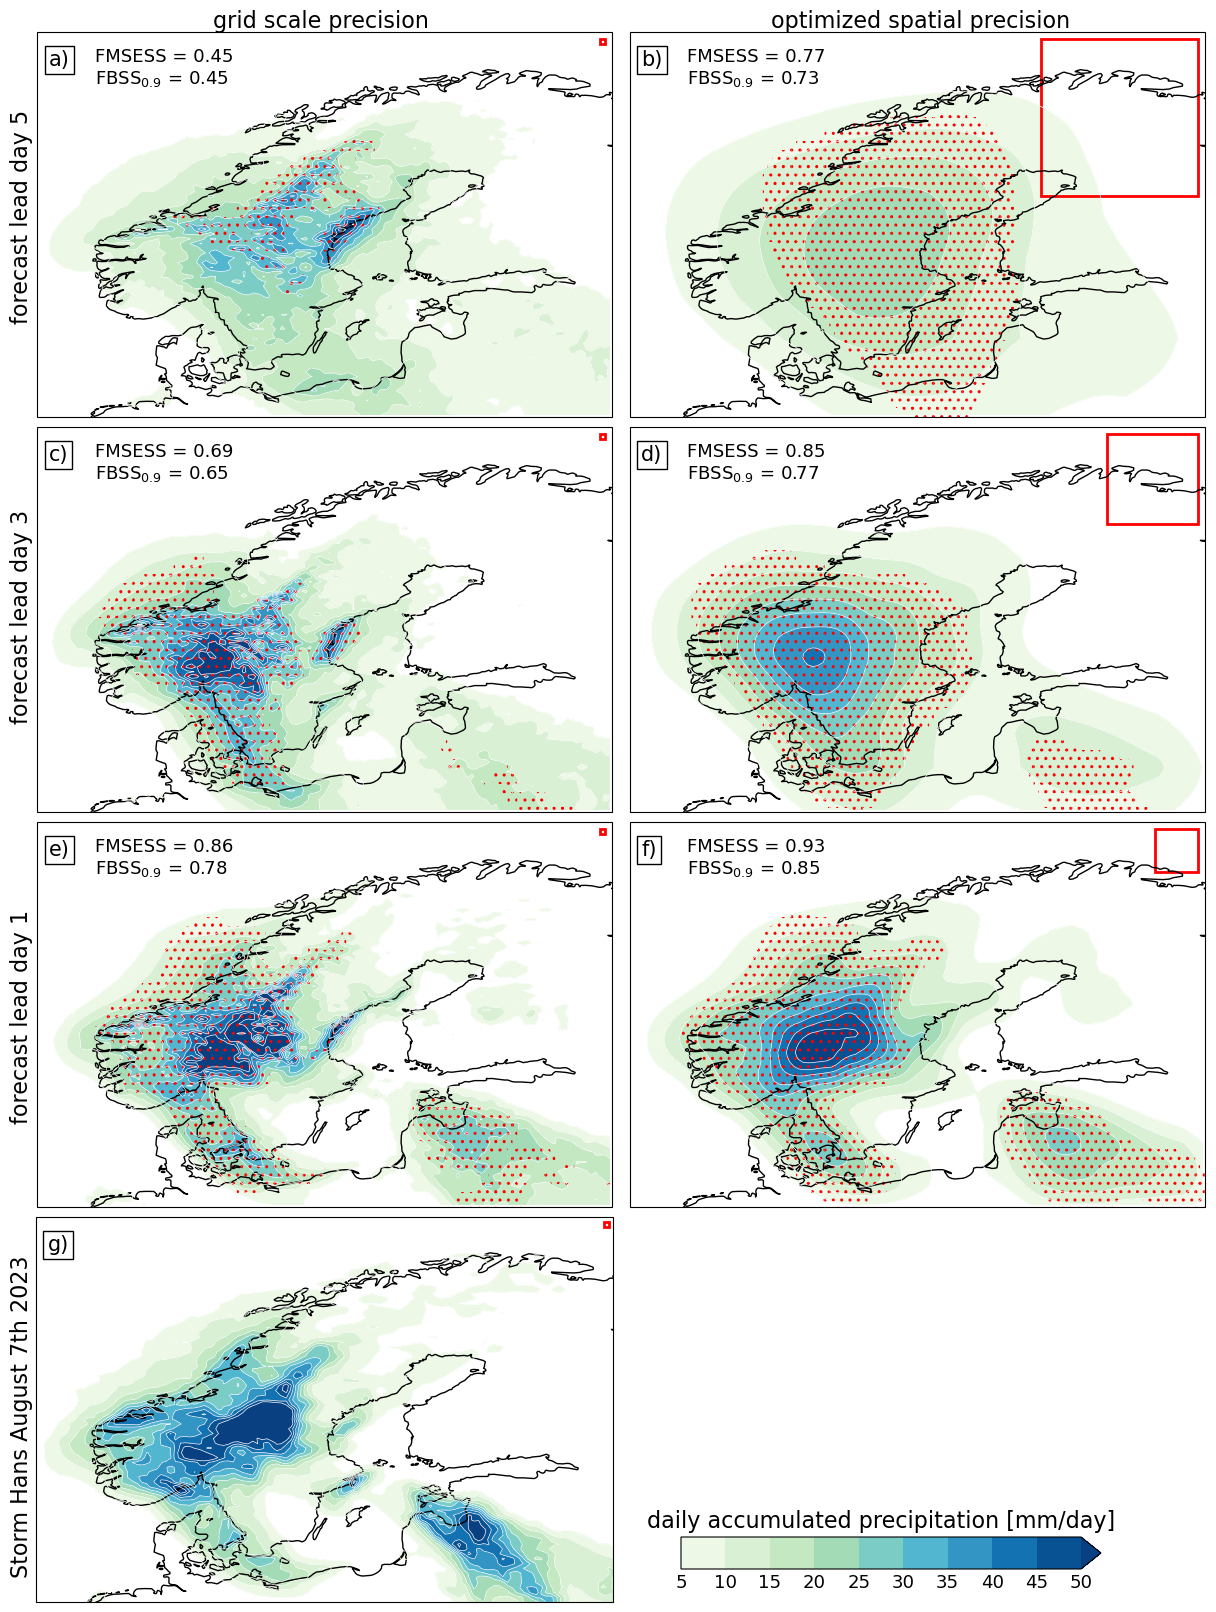
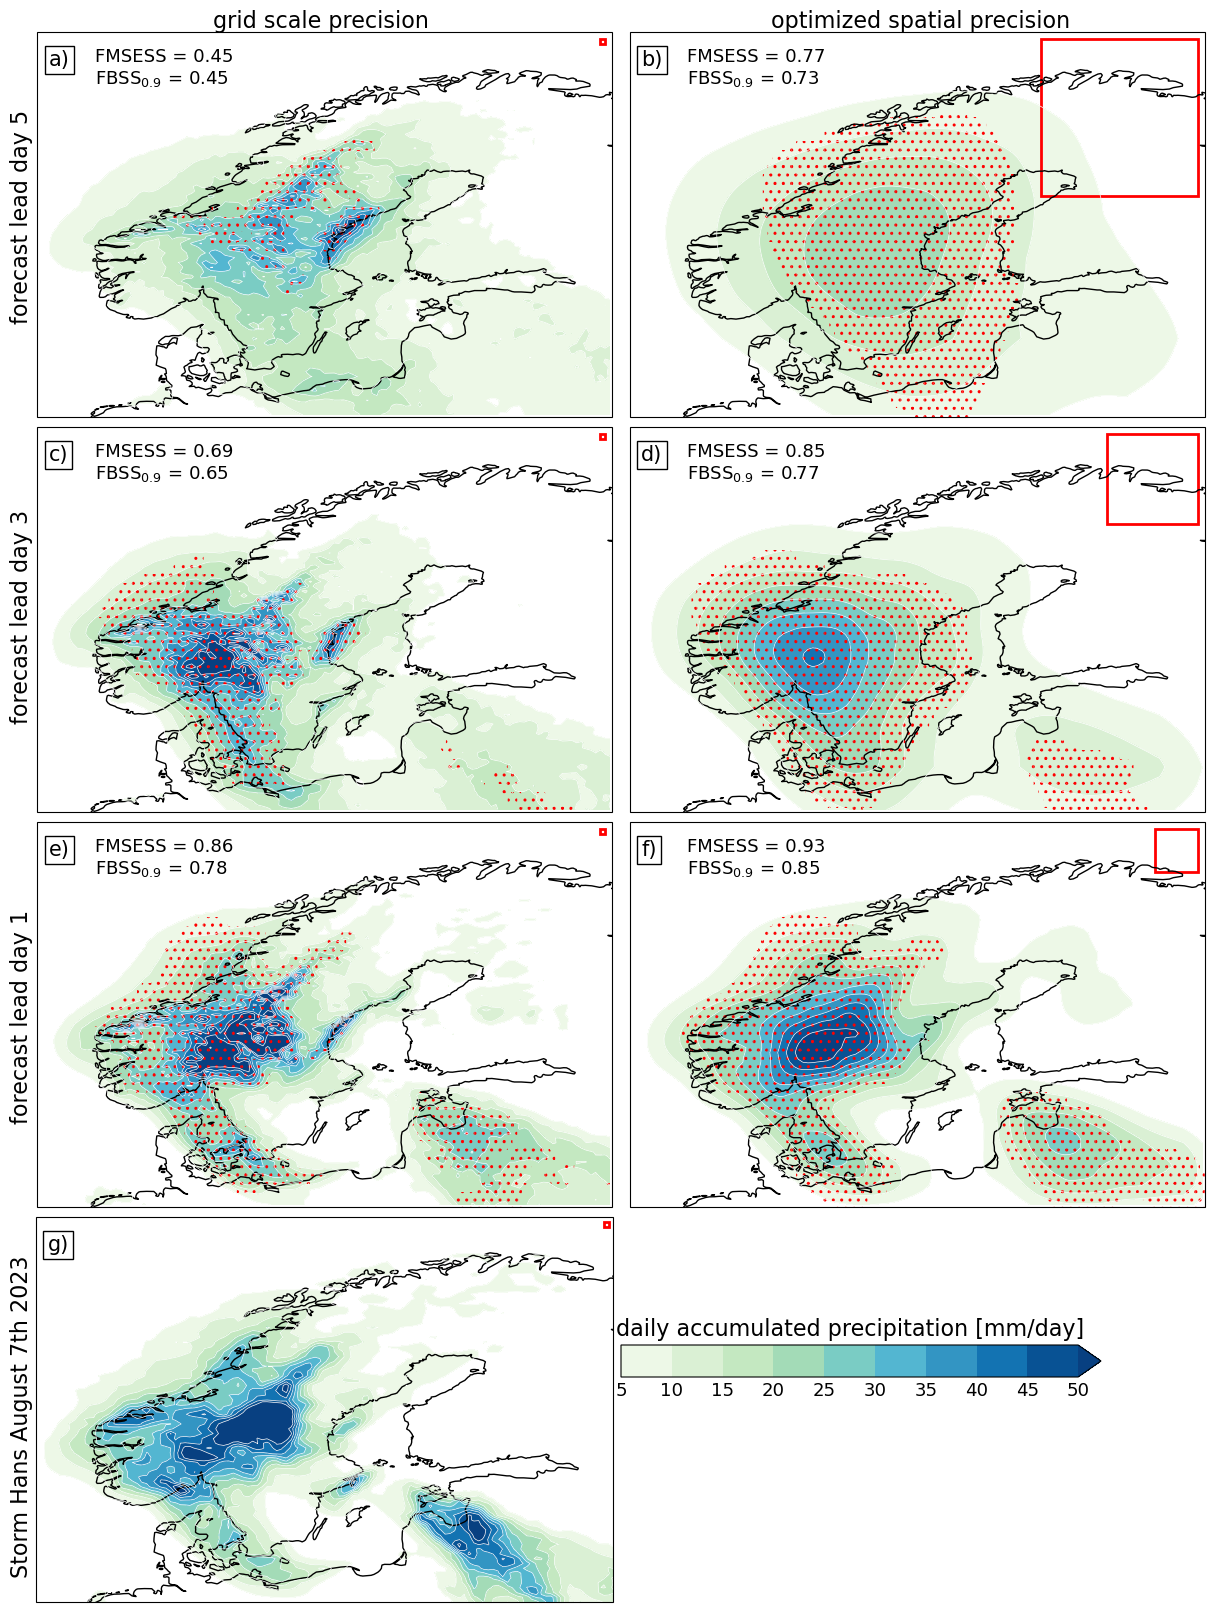
update

Changed region(s): [[0.5, 0.8065, 0.9062, 0.8685], [0.5312, 0.9305, 0.9062, 0.9926]]

diff --git a/code/plot/test.py b/code/plot/test.py
@@ -116,9 +116,7 @@ p = setup_subplot_xy(6, ax[5], da6['EFI'], da6[variable], clevs, cmap, fontsize,
 setup_subplot_xy(7, ax[6], da5['EFI'], da7[variable], clevs, cmap, fontsize, 'g)', stats5)
 
 ax[7].set_frame_on(False)
-
-#cbar_ax = fig.add_axes([0.52, 0.2, 0.4, 0.02])
-cbar_ax = fig.add_axes([0.55, 0.03, 0.35, 0.02])
+cbar_ax = fig.add_axes([0.5, 0.15, 0.4, 0.02])
 cb = fig.colorbar(p, cax=cbar_ax, orientation='horizontal',ticks=clevs, pad=0.025)
 cb.ax.tick_params(labelsize=fontsize+2, size=0)
 cb.ax.set_title('daily accumulated precipitation [mm/day]', fontsize=fontsize+5,y=1.01)
@@ -135,7 +133,6 @@ ncols = 2
 x_positions = [(i + 0.5) / ncols for i in range(ncols)]  # Centered above each column
 top_labels = ['grid scale precision', 'optimized spatial precision']
 
-# Place text at the top of the figure centered above each column
 for x, label in zip(x_positions, top_labels):
     fig.text(x, 0.99, label, fontsize=fontsize + 5, va='bottom', ha='center')  # Adjust y-position if needed
     
